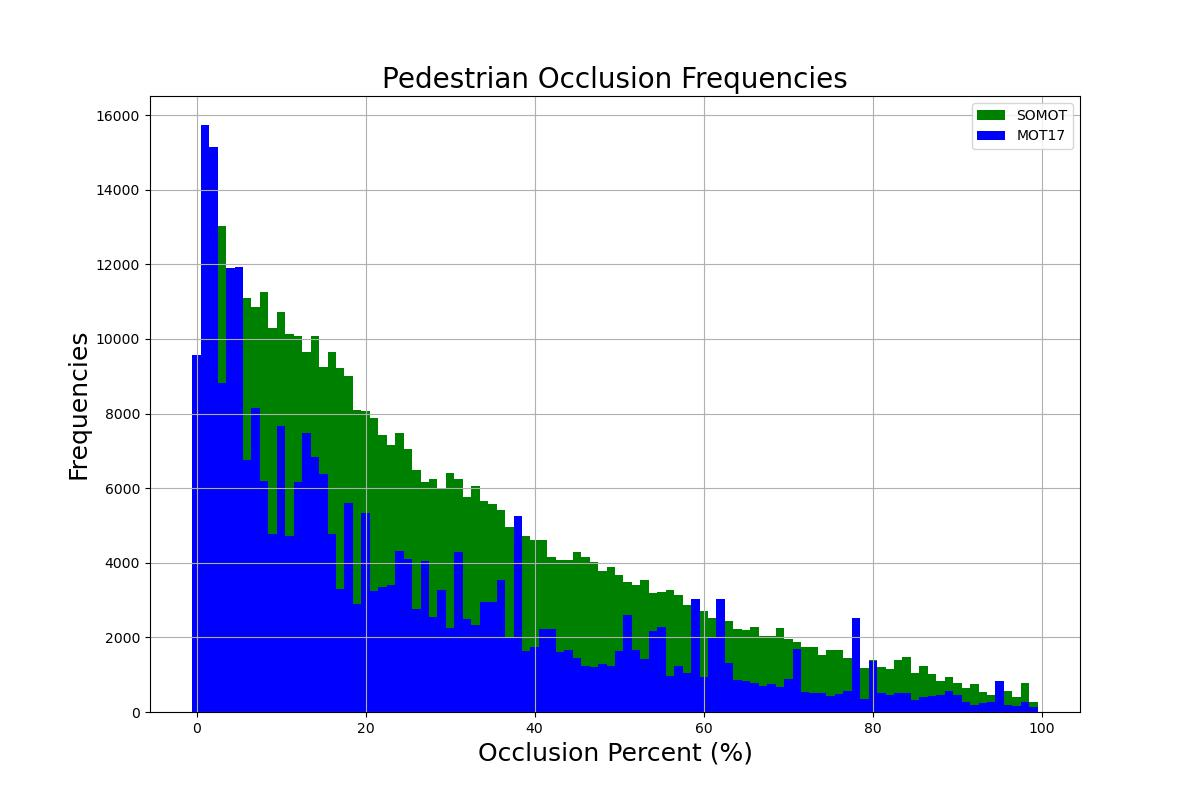
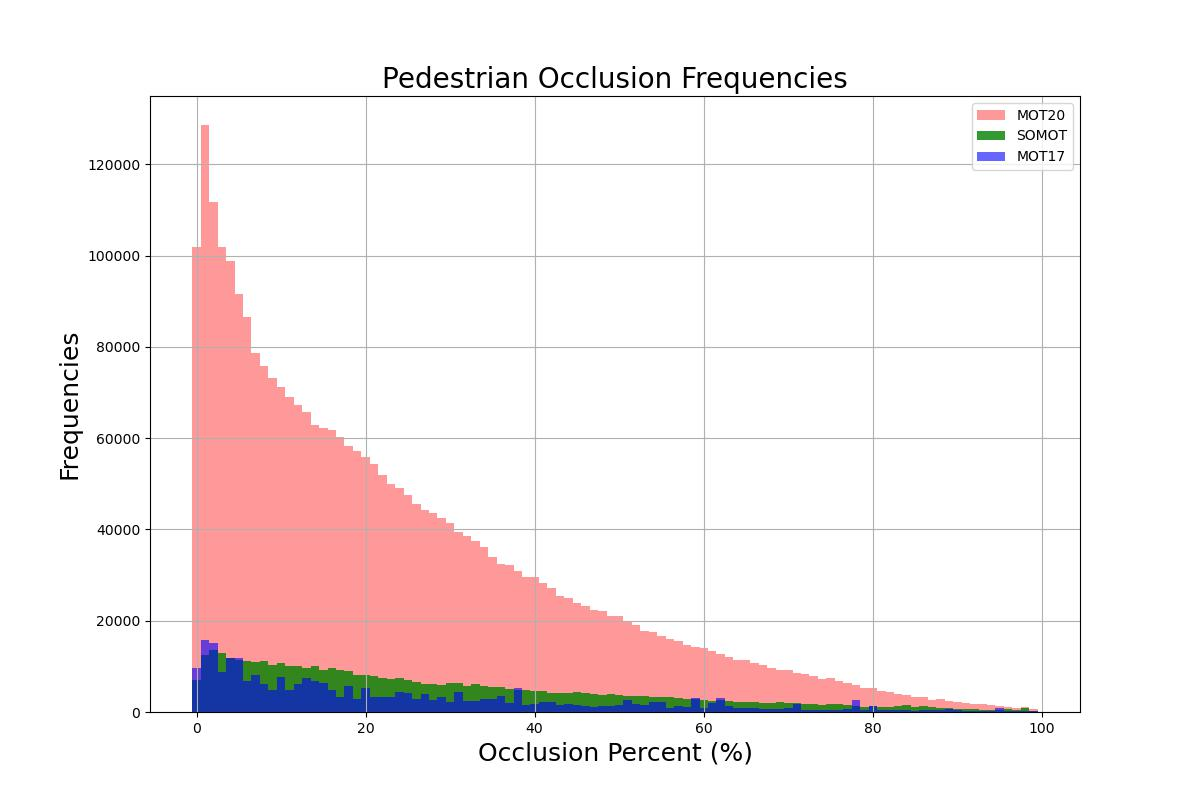
MOT20 statistics added

diff --git a/datasetStatistics.py b/datasetStatistics.py
@@ -9,22 +9,24 @@ from operator import itemgetter
 import matplotlib.pyplot as plt
 
 
-somot = '/home/fatih/mnt/trackeveryseason'  # train test
-mot17 = '/home/fatih/mnt/fairmot_data/data/MOT17/images'  # train
+somot = '/mnt/disk1/trackeveryseason'  # train test
+mot17 = '/mnt/disk1/FairMOT_datasets/MOT17/images'  # train
+mot20 = '/mnt/disk1/FairMOT_datasets/MOT20/images'  # train
+
 # split = ['test', 'train']
 
 aspectRatio = [0.0, 0.1, 0.2, 0.3, 0.4, 0.5, 0.6, 0.7, 0.8]
 
 #
-root = [somot, mot17]
+root = [somot, mot17, mot20]
 
-histAR = np.zeros((2, 500), dtype=int)  # w/h
-histAR_x = np.linspace(0, 10, num=500, dtype=float, endpoint=False)
+histAR = np.zeros((3, 101), dtype=int)  # w/h
+histAR_x = np.linspace(0, 1, num=101, dtype=float, endpoint=False)
 #print(histAR_x)
-histHeight = np.zeros((2, 1920), dtype=int)
+histHeight = np.zeros((3, 1920), dtype=int)
 histH_x = [x for x in range(0, 1920)]
-histDensity = np.zeros((2, 120), dtype=int)
-histD_x = [x for x in range(0, 120)]
+histDensity = np.zeros((3, 500), dtype=int)
+histD_x = [x for x in range(0, 500)]
 
 def my_sort(linex):
     line_fields = linex.strip().split(',')
@@ -35,7 +37,7 @@ def my_sort(linex):
 for ro in root:
     seqs = os.listdir(os.path.join(ro, 'train'))
     for seq in seqs:
-        if (seq.find('DPM') != -1 and ro == mot17) or ro == somot:
+        if (seq.find('DPM') != -1 and ro == mot17) or ro == somot or ro == mot20:
             gt = os.path.join(ro, 'train', seq, 'gt', 'gt.txt')
             with open(gt) as fp:
                 Lines = fp.readlines()
@@ -49,13 +51,19 @@ for ro in root:
                     h = line[5]
                     if int(h) == 0:
                         print(ar, h, w, gt, ix)
-                    ar = int((float(w) / float(h)) * 50)
-                    if ro == somot:
-                        histHeight[0, int(h)] += 1
-                        histAR[0, ar] += 1
-                    else:
-                        histHeight[1, int(h)] += 1
-                        histAR[1, ar] += 1
+                    ar = float(w) / float(h)
+                    if ar <= 1.0:
+                        ar = int(ar * 100)
+                        if ro == somot:
+                            histHeight[0, int(h)] += 1
+                            histAR[0, ar] += 1
+                        elif ro == mot17:
+                            histHeight[1, int(h)] += 1
+                            histAR[1, ar] += 1
+                        else:
+                            histHeight[2, int(h)] += 1
+                            histAR[2, ar] += 1
+
 
                     if frm == frm_pre:
                         density += 1
@@ -63,48 +71,59 @@ for ro in root:
                         frm_pre = frm
                         if ro == somot:
                             histDensity[0, density] += 1
-                        else:
+                        elif ro == mot17:
                             histDensity[1, density] += 1
+                        else:
+                            histDensity[2, density] += 1
                         density = 1
         else:
             continue
 
-
 fig = plt.subplots(figsize=(12, 8))
-plt.bar(histAR_x[:100], histAR[0, :100], color='g', width=0.03, label='SOMOT')
-plt.bar(histAR_x[:100], histAR[1, :100], color='b', width=0.03, label='MOT17')
+plt.bar(histAR_x[:15000], histAR[2, :15000], color='r', width=0.03, label='MOT20', alpha=0.4)
+plt.bar(histAR_x[:15000], histAR[0, :15000], color='g', width=0.03, label='SOMOT', alpha=0.6)
+plt.bar(histAR_x[:15000], histAR[1, :15000], color='b', width=0.03, label='MOT17', alpha=0.8)
+
 plt.ylabel('Frequencies', size=18)
 plt.xlabel('Aspect Ratio (w/h)', size=18)
 plt.title('Pedestrian Aspect Ratio Frequencies', size=20)
 plt.legend()
 plt.grid()
-plt.savefig('histOfAR.jpg')
+plt.savefig('histOfAR_.jpg')
 plt.show()
 plt.close()
 
 
 fig = plt.subplots(figsize=(12, 8))
-plt.bar(histH_x[:400], histHeight[0, :400], color='g', width=8, label='SOMOT')
-plt.bar(histH_x[:400], histHeight[1, :400], color='b', width=8, label='MOT17')
+plt.bar(histH_x[:400], histHeight[2, :400], color='r', width=8, label='MOT20', alpha=0.4)
+plt.bar(histH_x[:400], histHeight[0, :400], color='g', width=8, label='SOMOT', alpha=0.6)
+plt.bar(histH_x[:400], histHeight[1, :400], color='b', width=8, label='MOT17', alpha=0.8)
+
+
+
 plt.ylabel('Frequencies', size=18)
 plt.xlabel('Object Height (px)', size=18)
 plt.title('Pedestrian Size Frequencies', size=20)
 plt.legend()
 plt.grid()
-plt.savefig('histOfH.jpg')
+plt.savefig('histOfH_.jpg')
 plt.show()
 plt.close()
 
 
 fig = plt.subplots(figsize=(12, 8))
-plt.bar(histD_x[:90], histDensity[0, :90], color='g', width=1.3, label='SOMOT')
-plt.bar(histD_x[:90], histDensity[1, :90], color='b', width=1.3, label='MOT17')
+plt.bar(histD_x[:250], histDensity[2, :250], color='r', width=1.3, label='MOT20', alpha=0.4)
+plt.bar(histD_x[:250], histDensity[0, :250], color='g', width=1.3, label='SOMOT', alpha=0.6)
+plt.bar(histD_x[:250], histDensity[1, :250], color='b', width=1.3, label='MOT17', alpha=0.8)
+
+
+
 plt.ylabel('Frequencies', size=18)
 plt.xlabel('Object per Frame', size=18)
 plt.title('Pedestrian Densities', size=20)
 plt.legend()
 plt.grid()
-plt.savefig('histOfD.jpg')
+plt.savefig('histOfD_.jpg')
 plt.show()
 plt.close()
 

diff --git a/datasetVisibility.py b/datasetVisibility.py
@@ -10,11 +10,12 @@ import matplotlib.pyplot as plt
 
 somot = '/mnt/disk1/trackeveryseason'  # train test
 mot17 = '/mnt/disk1/FairMOT_datasets/MOT17/images'  # train
+mot20 = '/mnt/disk1/FairMOT_datasets/MOT20/images'
 # split = ['test', 'train']
 
-root = [somot, mot17]
+root = [somot, mot17, mot20]
 
-histOcc = np.zeros((2, 100), dtype=int)  # w/h
+histOcc = np.zeros((3, 100), dtype=int)  # occ
 histOcc_x = [i for i in range(0, 100)]
 
 
@@ -50,11 +51,14 @@ occ = 0
 for ro in root:
     seqs = os.listdir(os.path.join(ro, 'train'))
     for seq in seqs:
-        if (seq.find('DPM') != -1 and ro == mot17) or ro == somot:
+        if (seq.find('DPM') != -1 and ro == mot17) or ro == somot or ro == mot20:
             gt = os.path.join(ro, 'train', seq, 'gt', 'gt.txt')
             with open(gt) as fp:
                 Lines = fp.readlines()
-                Lines.sort(key=my_sort)
+                try:
+                    Lines.sort(key=my_sort)
+                except:
+                    print(ro, seq)
                 frm_pre = '1'
                 lineSetA = []
                 lineSetB = []
@@ -97,8 +101,11 @@ for ro in root:
                                             occlusionA = int((interArea/aArea)*100)
                                             if ro == somot:
                                                 histOcc[0, occlusionA] += 1
-                                            else:
+                                            elif ro == mot17:
                                                 histOcc[1, occlusionA] += 1
+                                            else:
+                                                histOcc[2, occlusionA] += 1
+
                         lineSetA = [line]
                         lineSetB = [line]
                         frm_pre = frm
@@ -107,13 +114,16 @@ for ro in root:
             continue
 
 fig = plt.subplots(figsize=(12, 8))
-plt.bar(histOcc_x[:], histOcc[0, :], color='g', width=1, label='SOMOT')
-plt.bar(histOcc_x[:], histOcc[1, :], color='b', width=1, label='MOT17')
+plt.bar(histOcc_x[:], histOcc[2, :], color='r', width=1, label='MOT20', alpha=0.4)
+plt.bar(histOcc_x[:], histOcc[0, :], color='g', width=1, label='SOMOT', alpha=0.8)
+plt.bar(histOcc_x[:], histOcc[1, :], color='b', width=1, label='MOT17', alpha=0.6)
+
+
 plt.ylabel('Frequencies', size=18)
 plt.xlabel('Occlusion Percent (%)', size=18)
 plt.title('Pedestrian Occlusion Frequencies', size=20)
 plt.legend()
 plt.grid()
-plt.savefig('histOfOcc.jpg')
+plt.savefig('histOfOcc_.jpg')
 plt.show()
 plt.close()
